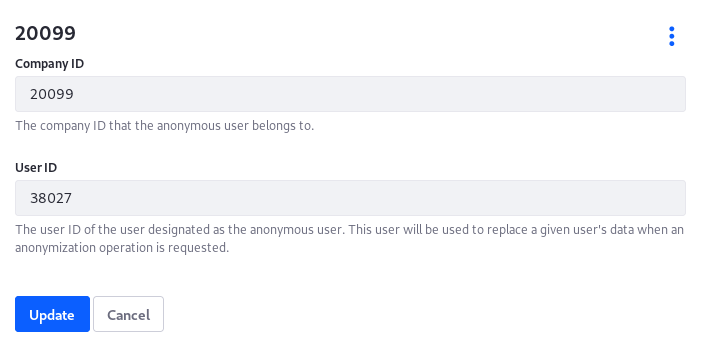
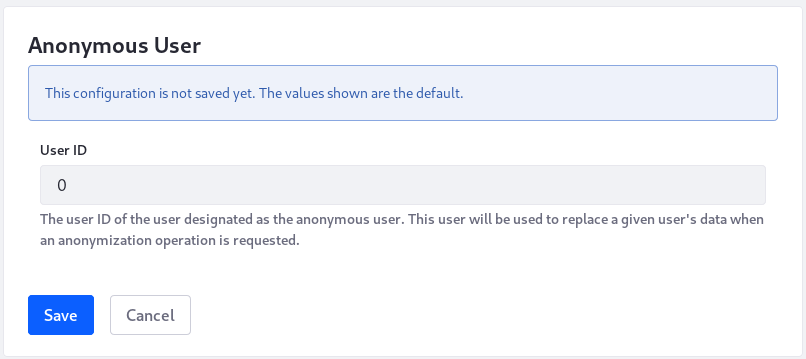
LRDOCS-8182, 7587, 7586, review edits, restoring article, updating for 7.3 while I'm at it

diff --git a/docs/dxp/7.x/en/users-and-permissions/managing-user-data/configuring-the-anonymous-user.md b/docs/dxp/7.x/en/users-and-permissions/managing-user-data/configuring-the-anonymous-user.md
@@ -1,0 +1,47 @@
+# Configuring the Anonymous User
+
+Internet users are increasingly and justifiably concerned about how their personal data is processed by the systems they use. Liferay is aware of the need for functionality to address User data management. [Deleting User data](./sanitizing-user-data.md#the-personal-data-erasure-screen) is the safest way to honor _right to be forgotten_ requests.
+
+When User data must be preserved, automatic anonymization of the data is in order. Users being anonymized must have their identifiers (for example, User ID and User Name) removed from content they've interacted with. Since portal content usually requires this information for its applications to work properly, the User's identifiers must be replaced by something, or someone. Meet *Anonymous Anonymous*, identity swapper *extraordinaire*. This deactivated User is dedicated to be the User whose identifiers are assigned to anonymized content. This identity swap is an important step in the anonymization process, but additional manual intervention may be necessary to truly achieve anonymization.
+
+![Anonymized content is presented with the User Anonymous Anonymous's identifying information.](./configuring-the-anonymous-user/images/01.png)
+
+The easiest way to set up a new User as the Anonymous User is to edit an existing Anonymous User configuration, passing in a different User ID. 
+
+To edit an existing configuration:
+
+1. Go to Control Panel &rarr; Configuration &rarr; Instance Settings &rarr; Users &rarr; Anonymous User.
+
+1. Edit the existing configuration, providing a different User ID.
+
+   Get the User ID from Control Panel &rarr; Users &rarr; Users and Organizations. Click on the User and find the User ID in the User Display Data section of the Edit User screen.
+
+1.  Click *Update*.
+
+To create a brand new Anonymous User, first [create the User](../users/adding-and-managing-users.md) to use for data anonymization, then follow the same steps described above.
+
+There can only be one Anonymous User configured for each instance.
+
+![Assign your own Anonymous User from Instance Settings in the Control Panel.](./configuring-the-anonymous-user/images/02.png)
+
+## Using a Configuration File
+
+As with all System Settings and Instance Settings, a `.config` file can be deployed to `[Liferay Home]/osgi/configs/` as an alternative to working in the Control Panel UI. To create an Anonymous User with a configuration file, create the file
+
+```bash
+[Liferay Home]/osgi/configs/com.liferay.user.associated.data.web.internal.configuration.AnonymousUserConfiguration.config
+```
+
+Give it contents like this:
+
+```properties
+companyId=20098
+userId=36059
+```
+
+To find the `companyId` for a [Virtual Instance](../../system-administration/virtual_instances.rst), go to Control Panel &rarr; System &rarr; Virtual Instances. The Instance ID displayed in the table is the `companyId` to use in the configuration file.
+
+```important::
+   `Why is there an extra field in the configuration file?`
+   When configuring the Anonymous User by configuration file, you must provide the Company ID of the instance. In Instance Settings the configuration is already associated to the instance where it's being configured, but the configuration file is deployed at the system scope, so it must contain the ID of the instance where it applies.
+```

diff --git a/docs/dxp/7.x/en/users-and-permissions/managing-user-data/sanitizing-user-data.md b/docs/dxp/7.x/en/users-and-permissions/managing-user-data/sanitizing-user-data.md
@@ -64,7 +64,5 @@ Now the User's data is anonymized or deleted, and the User is also deleted.
 
 Anonymizing just the User's identification fields and deleting the User is often not enough. If a User named Ziltoid Omniscient complains about The Lunar Resort's coffee in a Message Boards Message and in it signs the post with _Supreme Leader of Ziltoidea 9_, anonymizing this post would remove the User's name (Ziltoid Omnisicent) and replace it with Anonymous Anonymous, but searching the Internet for _Ziltoidea_ quickly reveals that the post was written by [Ziltoid the Omniscient](https://en.wikipedia.org/wiki/Ziltoid_the_Omniscient). Because there can be user-entered personal data within the content of an application, you must manually edit such content to remove identifying details. 
 
-<!-- The image below is missing. -Rich -->
-
-![Even though this Message Boards Message (a comment on a blog post in this case) is anonymized, it should be edited to remove User Associated Data from the content of the message.](./intro/images/users-partial-anonymization.png)
+![Even though this Message Boards Message (a comment on a blog post in this case) is anonymized, it should be edited to remove User Associated Data from the content of the message.](./sanitizing-user-data/images/05.png)
 
